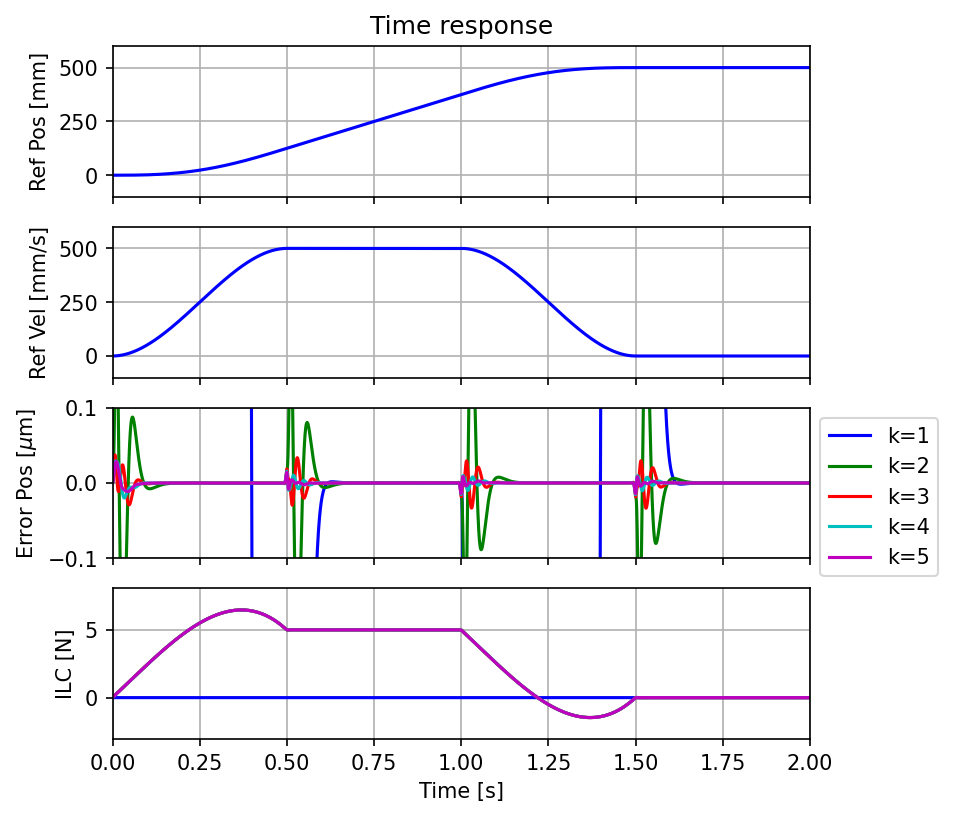
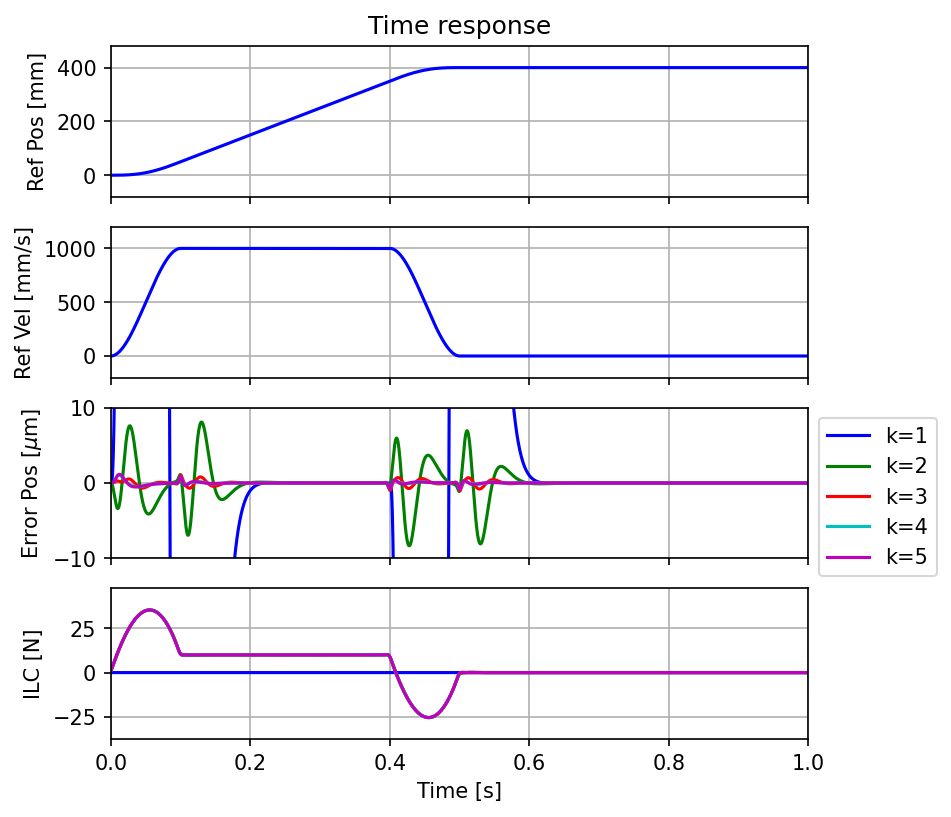
v-0.4.0

diff --git a/example/Run_trdsim.py b/example/Run_trdsim.py
@@ -47,10 +47,10 @@ Pmechs1 = ctrl.tf([1], [M, C, K]) + k1 * ctrl.tf([1], [1, 2*zetaPreso*omegaPreso
 Pmechs2 = ctrl.tf([1], [M, C, K]) + k2 * ctrl.tf([1], [1, 2*zetaPreso*omegaPreso, omegaPreso**2])
 Ndelay = 4
 Dz = z**-Ndelay
-Pnz1 = ctrl.c2d(Pmechs1, Ts, method='zoh') * Dz
-Pnz2 = ctrl.c2d(Pmechs2, Ts, method='zoh') * Dz
-Pnz1_frd = ctrl.sys2frd(Pnz1, freq)
-Pnz2_frd = ctrl.sys2frd(Pnz2, freq)
+Pnz1 = ctrl.c2d(Pmechs1, Ts, method='zoh')
+Pnz2 = ctrl.c2d(Pmechs2, Ts, method='zoh')
+Pnz1_frd = ctrl.sys2frd(Pnz1 * Dz, freq)
+Pnz2_frd = ctrl.sys2frd(Pnz2 * Dz, freq)
 print('Plant model was set.')
 
 # Design PID controller
@@ -64,6 +64,17 @@ Cz = ctrl.pid(freq1, zeta1, freq2, zeta2, M, C, K, Ts)
 Cz_frd = ctrl.sys2frd(Cz, freq)
 print('PID controller was designed.')
 
+print('Frequency response analysis is running...')
+# Motor side
+Gn1_frd = Pnz1_frd * Cz_frd
+Sn1_frd = 1/(1 + Gn1_frd)
+Tn1_frd = 1 - Sn1_frd
+
+# Load side
+Gn2_frd = Pnz2_frd * Cz_frd
+Sn2_frd = 1/(1 + Gn2_frd)
+Tn2_frd = 1 - Sn2_frd
+
 print('Time response analysis is running...')
 posStep = 0.4
 velMax = 1
@@ -75,7 +86,7 @@ e, u, y = ctrl.trdsim(r, t, Pnz1, Cz, Ndelay=Ndelay)
 
 print('Plotting figures...')
 # Time response
-fig = plot.makefig()
+fig = plot.makefig(dpi=150, figsize=(6,6))
 ax1 = fig.add_subplot(311)
 ax2 = fig.add_subplot(312)
 ax3 = fig.add_subplot(313)
@@ -84,5 +95,59 @@ plot.plot_xy(ax1, t, y, '-', 'r', 1.5, 1.0, [0, max(t)], ylabel='Position [m]', 
 plot.plot_xy(ax2, t, e*1e6, '-', 'b', 1.5, 1.0, [0, max(t)], ylabel='Position [$\mu$m]', legend='e')
 plot.plot_xy(ax3, t, u, '-', 'b', 1.5, 1.0, [0, max(t)], xlabel='Time [s]', ylabel='Force [N]', legend='u')
 plot.savefig(figurefolderName+'/time_resp.png')
+
+# Plant
+fig = plot.makefig()
+ax_mag = fig.add_subplot(211)
+ax_phase = fig.add_subplot(212)
+plot.plot_tffrd(ax_mag, ax_phase, Pnz1_frd, '-', 'b', 1.5, 1.0, legend='Motor side', title='Frequency response of plant')
+plot.plot_tffrd(ax_mag, ax_phase, Pnz2_frd, '-', 'r', 1.5, 1.0, freqrange, legend='Load side')
+plot.savefig(figurefolderName+'/freq_P.png')
+
+# PID controller
+fig = plot.makefig()
+ax_mag = fig.add_subplot(211)
+ax_phase = fig.add_subplot(212)
+plot.plot_tffrd(ax_mag, ax_phase, Cz_frd, '-', 'b', 1.5, 1.0, freqrange, phasebase=180, title='Frequency response of PID controller')
+plot.savefig(figurefolderName+'/freq_C.png')
+
+# Open loop function
+fig = plot.makefig()
+ax_mag = fig.add_subplot(211)
+ax_phase = fig.add_subplot(212)
+plot.plot_tffrd(ax_mag, ax_phase, Gn1_frd, '-', 'b', 1.5, 1.0, legend='Motor side', title='Frequency response of open loop transfer function')
+plot.plot_tffrd(ax_mag, ax_phase, Gn2_frd, '-', 'r', 1.5, 1.0, freqrange, legend='Load side')
+plot.savefig(figurefolderName+'/freq_G.png')
+
+# Sensitivity function
+fig = plot.makefig()
+ax_mag = fig.add_subplot(111)
+ax_phase = None
+plot.plot_tffrd(ax_mag, ax_phase, Sn1_frd, '-', 'b', 1.5, 1.0, legend='Motor side', title='Frequency response of sensitivity function')
+plot.plot_tffrd(ax_mag, ax_phase, Sn2_frd, '-', 'r', 1.5, 1.0, freqrange, [-60, 20], legend='Load side')
+plot.savefig(figurefolderName+'/freq_S.png')
+
+# Complementary sensitivity function
+fig = plot.makefig()
+ax_mag = fig.add_subplot(211)
+ax_phase = fig.add_subplot(212)
+plot.plot_tffrd(ax_mag, ax_phase, Tn1_frd, '-', 'b', 1.5, 1.0, phasebase=180, legend='Motor side', title='Frequency response of complementary sensitivity function')
+plot.plot_tffrd(ax_mag, ax_phase, Tn2_frd, '-', 'r', 1.5, 1.0, freqrange, [-60, 20], phasebase=180, legend='Load side')
+plot.savefig(figurefolderName+'/freq_T.png')
+
+# Nyquist
+fig = plot.makefig()
+ax = fig.add_subplot(111)
+plot.plot_nyquist(ax, Gn1_frd, '-', 'b', 1.5, 1.0, xrange=[-20, 10], yrange=[-15, 15], legend='Motor side', title='Nyquist Diagram')
+plot.plot_nyquist(ax, Gn2_frd, '-', 'r', 1.5, 1.0, xrange=[-20, 10], yrange=[-15, 15], legend='Load side')
+plot.plot_nyquist_assistline(ax)
+plot.savefig(figurefolderName+'/nyquist.png')
+
+fig = plot.makefig()
+ax = fig.add_subplot(111)
+plot.plot_nyquist(ax, Gn1_frd, '-', 'b', 1.5, 1.0, legend='Motor side', title='Nyquist Diagram')
+plot.plot_nyquist(ax, Gn2_frd, '-', 'r', 1.5, 1.0, legend='Load side')
+plot.plot_nyquist_assistline(ax)
+plot.savefig(figurefolderName+'/nyquist_zoom.png')
 
 print('Finished.')

diff --git a/example/Run_ilc.py b/example/Run_ilc.py
@@ -17,6 +17,16 @@ from pylib_sakata import traj
 from pylib_sakata import plot
 from scipy import signal
 
+def ilc(Lz1, Lz2, N_L, Qz, Pnz, Cz, r, e, f, t):
+    Le1, tout, xout = matlab.lsim(ctrl.tf2ss(Lz1), e, t)
+    Le1 = np.roll(Le1, -N_L)
+    Le1[-N_L:] = 0
+    Le2, tout, xout = matlab.lsim(ctrl.tf2ss(Lz2), e, t)
+    Le = Le1 + Le2
+    f_new = signal.filtfilt(Qz.num[0][0], Qz.den[0][0], Le + f)
+    e_new, u, y = ctrl.trdsim(r, t, Pnz, Cz, uff=f_new, Ndelay=Ndelay)
+    return e_new, f_new
+
 print('Start simulation!')
 
 # Common parameters
@@ -69,12 +79,10 @@ Q_frd = ctrl.sys2frd(Q, freq)
 print('Q-filter was designed.')
 
 # Design learning-filter
-Snz = ctrl.feedback(Pnz, Cz, sys='S')
-SPnz = ctrl.feedback(Pnz, Cz, sys='SP')
-SPnz_frd = ctrl.sys2frd(SPnz, freq)
-Pinvz, N_L = ctrl.zpetc(Pnz, Ts)
-Lz1 = Pinvz
-Lz2 = Cz
+Pinvz, N_zpet = ctrl.zpetc(Pnz, Ts)
+alpha = 1.0
+Lz1 = Pinvz * alpha
+Lz2 = Cz * alpha
 Lz = Lz1 + Lz2
 Lz1_frd = ctrl.sys2frd(Lz1, freq)
 Lz2_frd = ctrl.sys2frd(Lz2, freq)
@@ -82,17 +90,9 @@ L_frd = Lz1_frd + Lz2_frd
 print('Learning-filter was designed.')
 
 print('Time response analysis is running...')
-def ilc(Sz, SPz, Lz, Qz, r, e, f, t):
-    Le1, tout, xout = matlab.lsim(ctrl.tf2ss(Lz1), e, t)
-    Le2, tout, xout = matlab.lsim(ctrl.tf2ss(Lz2), e, t)
-    Le = Le1 + Le2
-    f_new = signal.filtfilt(Qz.num[0][0], Qz.den[0][0], Le + f)
-    e_new, u, y = ctrl.trdsim(r, t, Pnz, Cz, uff=f_new, Ndelay=Ndelay)
-    return e_new, f_new
-
-posStep = 0.5
-velMax = 0.5
-accAve = 1.0
+posStep = 0.4
+velMax = 1
+accAve = 10
 traj = traj.traj4th(0, posStep, velMax, accAve, Ts, 0.5)
 r = traj.pos
 t = traj.time
@@ -110,16 +110,16 @@ ax3 = fig.add_subplot(413)
 ax4 = fig.add_subplot(414)
 plot.plot_xy(ax1, traj.time, traj.pos * 1.0e3, '-', 'b', 1.5, 1.0, ylabel='Ref Pos [mm]', title='Time response')
 plot.plot_xy(ax2, traj.time, traj.vel * 1.0e3, '-', 'b', 1.5, 1.0, ylabel='Ref Vel [mm/s]')
-plot.plot_xy(ax3, t, e * 1.0e6, '-', col[np.mod(n, len(col))], 1.5, 1.0, ylabel='Error Pos [$\mu$m]', legend=legend[np.mod(n, len(legend))], loc='upper left', bbox_to_anchor=(1, 1))
+plot.plot_xy(ax3, t, e * 1.0e6, '-', col[np.mod(n, len(col))], 1.5, 1.0, ylabel='Error Pos [$\mu$m]', legend='k='+str(n+1), loc='upper left', bbox_to_anchor=(1, 1))
 plot.plot_xy(ax4, t, f, '-', col[np.mod(n, len(col))], 1.5, 1.0, xlabel='Time [s]', ylabel='ILC [N]')
 
 # Nth trial
 n_max = 5
 for n in range(1, n_max):
     # Update ILC
-    e, f = ilc(Snz, SPnz, Lz, Qz, r, e, f, t)
+    e, f = ilc(Lz1, Lz2, N_zpet+Ndelay, Qz, Pnz, Cz, r, e, f, t)
     # Plot
-    plot.plot_xy(ax3, t, e*1.0e6, '-', col[np.mod(n, len(col))], 1.5, 1.0, yrange=[-0.1, 0.1], legend=legend[np.mod(n, len(legend))], loc='upper left', bbox_to_anchor=(1, 1))
+    plot.plot_xy(ax3, t, e*1.0e6, '-', col[np.mod(n, len(col))], 1.5, 1.0, yrange=[-10, 10], legend='k='+str(n+1), loc='upper left', bbox_to_anchor=(1, 1))
     plot.plot_xy(ax4, t, f, '-', col[np.mod(n, len(col))], 1.5, 1.0, xlabel='Time [s]')
     if n == n_max-1:
         plot.savefig(figurefolderName+'/time_resp.png')

diff --git a/example/Run_zpetc.py b/example/Run_zpetc.py
@@ -80,7 +80,7 @@ plot.plot_xy(ax1, traj.time, traj.pos, '-', 'b', 1.5, 1.0, ylabel='Ref Pos [mm]'
 plot.plot_xy(ax2, traj.time, traj.vel, '-', 'b', 1.5, 1.0, ylabel='Ref Vel [mm/s]')
 plot.plot_xy(ax3, tout, e1*1.0e3, '-', 'b', 1.5, 1.0, legend='w/o ZPETC')
 plot.plot_xy(ax3, tout, e2*1.0e3, '-', 'r', 1.5, 1.0, yrange=[-40.0, 40.0], xlabel='Time [s]', ylabel='Error Pos [$\mu$m]', legend='with ZPETC')
-plot.savefig(figurefolderName+'/time_inject.png')
+plot.savefig(figurefolderName+'/time_resp.png')
 
 # Plant
 fig = plot.makefig()
